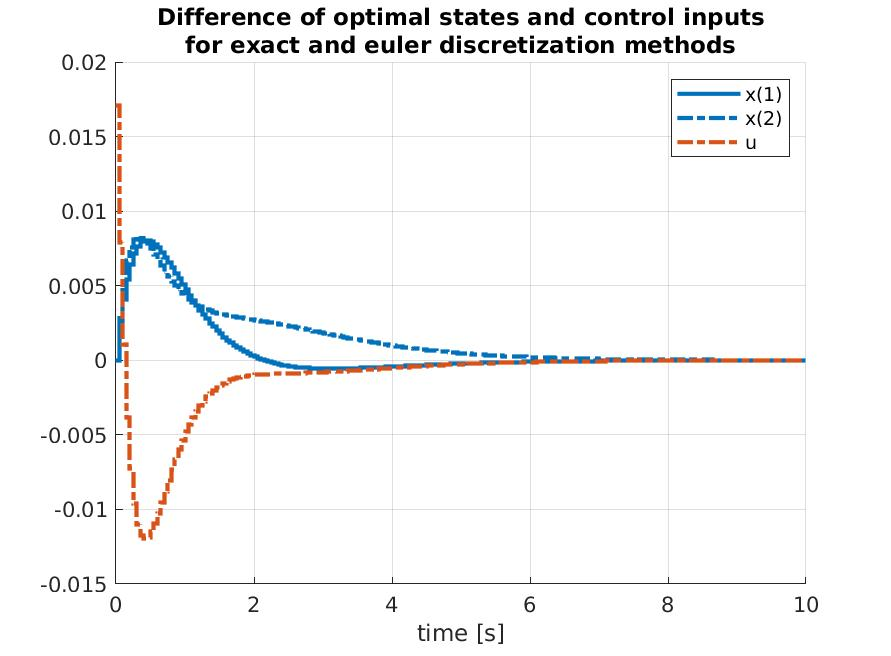
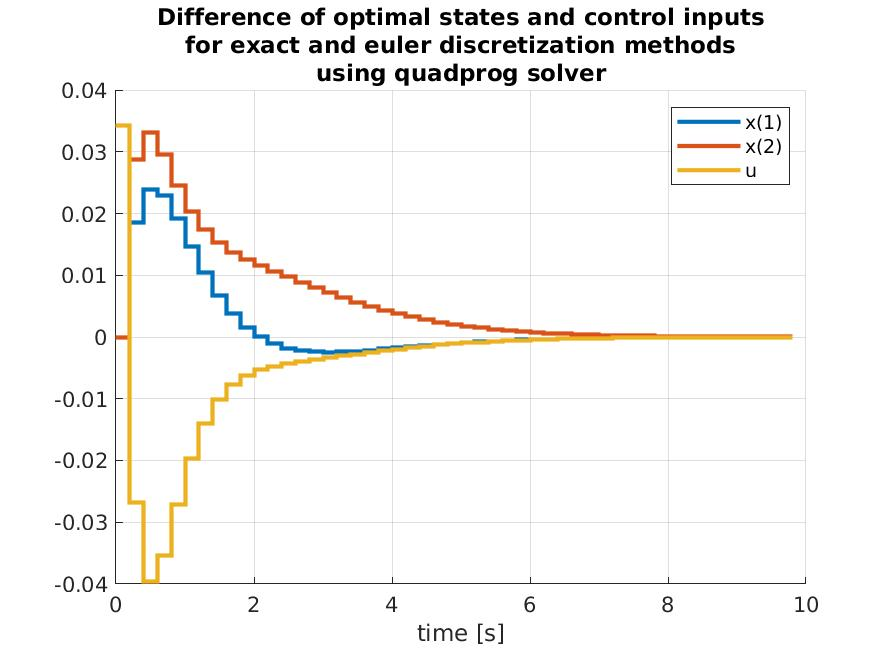
removing unused parameters

diff --git a/Homework Exercise 1/mainr.m b/Homework Exercise 1/mainr.m
@@ -6,7 +6,6 @@ digits(5);
 % cost function parameters
 Q = eye(2);
 R = 1;
-Pf = zeros(2);  % no final cost
 
 % horizon length
 tf = 10;            % horizon length
@@ -44,51 +43,72 @@ Bd_1, Bd_2
 
 %% Question F) Lets verify the difference in the solution when using the two different discretization methods
 
-[H, f, d, Aeq, beq] = define_opt_control_problem (Ad_1, Bd_1, Q, R, Pf, x0, N, n, m);
-[x_opt_1, u_opt_1] = solve_opt_control_quadprog (H, f, d, Aeq, beq, N, n, m);
-[x_opt_1_KKT, u_opt_1_KKT] = solve_opt_control_KKT (H, f, d, Aeq, beq, N, n, m);
+[H, f, d, Aeq, beq]        = define_opt_control_problem (Ad_1, Bd_1, Q, R, x0, N, n, m);
+[x_opt_1, u_opt_1]         = solve_opt_control_quadprog (H, f, d, Aeq, beq, N, n, m);
+[x_opt_1_KKT, u_opt_1_KKT] = solve_opt_control_KKT      (H, f, d, Aeq, beq, N, n, m);
+
+norm(x_opt_1-x_opt_1_KKT)
 
 fig = figure('Color','w'); hold on; grid on;
 plot_sim ( fig, x0, x_opt_1, u_opt_1, h, tf)
-title('Opt. control solution using exact discretization');
-saveas(fig, 'question-f-exact', 'jpg');
+title('Opt. control solution using exact discretization and quadprog solver');
+saveas(fig, 'question-f-exact-quadprog', 'jpg');
+
+fig = figure('Color','w'); hold on; grid on;
+plot_sim ( fig, x0, x_opt_1_KKT, u_opt_1_KKT, h, tf)
+title('Opt. control solution using exact discretization and KKT-cond');
+saveas(fig, 'question-f-exact-KKT', 'jpg');
 
 
-[H, f, d, Aeq, beq] = define_opt_control_problem (Ad_2, Bd_2, Q, R, Pf, x0, N, n, m);
-[x_opt_2, u_opt_2] = solve_opt_control_quadprog (H, f, d, Aeq, beq, N, n, m);
+[H, f, d, Aeq, beq]        = define_opt_control_problem (Ad_2, Bd_2, Q, R, x0, N, n, m);
+[x_opt_2, u_opt_2]         = solve_opt_control_quadprog (H, f, d, Aeq, beq, N, n, m);
+[x_opt_2_KKT, u_opt_2_KKT] = solve_opt_control_KKT      (H, f, d, Aeq, beq, N, n, m);
+
+norm(x_opt_2-x_opt_2_KKT)
+
 fig = figure('Color','w'); hold on; grid on;
 plot_sim ( fig, x0, x_opt_2, u_opt_2, h, tf)
-title('Opt. control solution using Euler discretization');
+title('Opt. control solution using Euler discretization and quadprog solver');
+saveas(fig, 'question-f-euler', 'jpg');
+
+fig = figure('Color','w'); hold on; grid on;
+plot_sim ( fig, x0, x_opt_2_KKT, u_opt_2_KKT, h, tf)
+title('Opt. control solution using Euler discretization and KKT-cond');
 saveas(fig, 'question-f-euler', 'jpg');
 
 
 fig = figure('Color','w'); hold on; grid on;
 plot_sim ( fig, x0*0, x_opt_1-x_opt_2, u_opt_1-u_opt_2, h, tf)
-title({'Difference of optimal states and control inputs','for exact and euler discretization methods'});
+title({'Difference of optimal states and control inputs',
+       'for exact and euler discretization methods',
+       'using quadprog solver'});
 saveas(fig, 'question-f-error', 'jpg');
 
 
 
 %% Question G) What happens if we change Q?
 
-[H, f, d, Aeq, beq] = define_opt_control_problem (Ad_1, Bd_1, 0.2*Q, R, Pf, x0, N, n, m);
-[x_opt, u_opt] = solve_opt_control_quadprog (H, f, d, Aeq, beq, N, n, m);
+[H, f, d, Aeq, beq] = define_opt_control_problem (Ad_1, Bd_1, 0.2*Q, R, x0, N, n, m);
+[x_opt, u_opt]      = solve_opt_control_quadprog (H, f, d, Aeq, beq, N, n, m);
+
 fig = figure('Color','w'); hold on; grid on;
 plot_sim ( fig, x0, x_opt, u_opt, h, tf)
 title('Opt. control solution using exact discretization - Q = 0.2*I_2');
 saveas(fig, 'question-g-alpha-0p2', 'jpg');
 
 
-[H, f, d, Aeq, beq] = define_opt_control_problem (Ad_1, Bd_1, 1*Q, R, Pf, x0, N, n, m);
-[x_opt, u_opt] = solve_opt_control_quadprog (H, f, d, Aeq, beq, N, n, m);
+[H, f, d, Aeq, beq] = define_opt_control_problem (Ad_1, Bd_1, 1*Q, R, x0, N, n, m);
+[x_opt, u_opt]      = solve_opt_control_quadprog (H, f, d, Aeq, beq, N, n, m);
+
 fig = figure('Color','w'); hold on; grid on;
 plot_sim ( fig, x0, x_opt, u_opt, h, tf)
 title('Opt. control solution using exact discretization - Q = 1*I_2');
 saveas(fig, 'question-g-alpha-1p0', 'jpg');
 
 
-[H, f, d, Aeq, beq] = define_opt_control_problem (Ad_1, Bd_1, 40*Q, R, Pf, x0, N, n, m);
-[x_opt, u_opt] = solve_opt_control_quadprog (H, f, d, Aeq, beq, N, n, m);
+[H, f, d, Aeq, beq] = define_opt_control_problem (Ad_1, Bd_1, 40*Q, R, x0, N, n, m);
+[x_opt, u_opt]      = solve_opt_control_quadprog (H, f, d, Aeq, beq, N, n, m);
+
 fig = figure('Color','w'); hold on; grid on;
 plot_sim ( fig, x0, x_opt, u_opt, h, tf)
 title('Opt. control solution using exact discretization - Q = 40*I_2');
@@ -97,40 +117,46 @@ saveas(fig, 'question-g-alpha-40p0', 'jpg');
 
 %% Question H) Compare continuous-time and discrete-time solution using the optimal control input
 
+
+
 % sysc = ss(Ac,Bc,eye(n),0);
 % sysd = c2d(sysc, h, 'zoh');
 % step(sysc,'-',sysd,'--')
 
 % continous time simulation
 sys = ss(Ac,Bc,eye(n),0);
-[y,t,x] = lsim(sys, u_opt_1, 0:h:tf-h, x0, 'zoh')
+[y,t,x] = lsim(sys, u_opt_1, 0:h:tf-h, x0, 'zoh');
 
 fig = figure('Color','w'); hold on; grid on;
-plot ( 1:N, x_opt_1-x', 'LineWidth',2)
+plot ( 1:N-1, x_opt_1-x(1:end-1,:)', 'LineWidth',2)
 legend('error x(1)','error x(2)')
 title('Error between continuous time and discrete time simulation');
 saveas(fig, 'question-h-discretization-error', 'jpg');
 
+
+close all;
 
 
 
 %% Helper functions
 
 
-function [H, f, d, Aeq, beq] = define_opt_control_problem ( Ad, Bd, Q, R, Pf, x0, N, n, m)
+function [H, f, d, Aeq, beq] = define_opt_control_problem ( Ad, Bd, Q, R, x0, N, n, m)
     %% Define Optimal control matrices
 
     gamma = zeros(N*n,N*m);
     for i=0:N-2
         gamma = gamma + kron(diag(ones(N-i,1),-i),Ad^i*Bd);     % fill lower-diagonals with Ad^i*Bd
     end
+    gamma = gamma(1:(N-1)*n,:);     % remove last constraint that includes x_N
     
     omega = [];
     for i=1:N
         omega = [omega; Ad^i];                              % extend matrix
     end
+    omega = omega(1:(N-1)*n,:);     % remove last constraint that includes x_N
     
-    Qb = blkdiag( kron(eye(N-1),Q), Pf );       % Qb = blkdiag(Q, Q, Q, Q, ..., Q, Pf)
+    Qb = kron(eye(N-1),Q);
     Rb = kron(eye(N),R);                        % Rb = blkdiag(R, R, ..., R)
     
     %% Define quadratic minimization problem
@@ -138,13 +164,13 @@ function [H, f, d, Aeq, beq] = define_opt_control_problem ( Ad, Bd, Q, R, Pf, x0
     % J = (xb'*Qb*xb + ub'*Rb*ub + x0'*Q*x0)    =   0.5*[xb,ub]'*H*[xb,ub] + f'*[xb,ub]' + d
     %   where:
     H = 2 * blkdiag(Qb,Rb);
-    f = zeros((n+m)*N,1);
+    f = zeros(n*(N-1)+m*N,1);   % f = zeros((n+m)*N,1);
     d = x0' * Q * x0;
 
     % equality constraints:  
     %  xb = omega*x0 + gamma*ub    =>   Aeq*[xb,ub] = beq
     %   where:
-    Aeq = [ eye(n*N), -gamma ];
+    Aeq = [ eye(n*(N-1)), -gamma ];  % Aeq = [ eye(n*N), -gamma ];
     beq = omega * x0;
 end
 
@@ -166,14 +192,20 @@ function [x_opt, u_opt] = solve_opt_control_quadprog (H, f, d, Aeq, beq, N, n, m
     % check constraints error: (Aeq*Y-beq)'
 
     % reshape solution
-    x_opt = reshape( Y(1:N*n), n, []);
-    u_opt = reshape( Y(N*n+1:end), m, []);
+    x_opt = reshape( Y(1:(N-1)*n), n, []);
+    u_opt = reshape( Y((N-1)*n+1:end), m, []);
 end
 
 function [x_opt, u_opt] = solve_opt_control_KKT (H, f, d, Aeq, beq, N, n, m)
     %% Solve optimal control problem using KKT conditions
     
-    if false
+    % 1 step solution
+    if rank(H) == size(H,1)
+        nu = -(Aeq/H*Aeq')\(Aeq/H*f + beq);
+        y  = -H\(Aeq'*nu + f);
+        
+    % 1 iterative solution - Newton's method
+    else    
         % user input
         tol  = 1e-12;
         maxiter = 20;
@@ -194,15 +226,11 @@ function [x_opt, u_opt] = solve_opt_control_KKT (H, f, d, Aeq, beq, N, n, m)
             fprintf('iter: %4d, tolerance:%f\n',iter,norm(delta));
             iter = iter+1;
         end
-    % 
-    else    
-        nu = -(Aeq/H*Aeq')\(Aeq/H*f + beq);
-        y  = -H\(Aeq'*nu + f);
     end
     
     % reshape solution
-    x_opt = reshape( y(1:N*n), n, []);
-    u_opt = reshape( y(N*n+1:end), m, []);
+    x_opt = reshape( y(1:(N-1)*n), n, []);
+    u_opt = reshape( y((N-1)*n+1:end), m, []);
 end
 
 
@@ -211,9 +239,9 @@ function plot_sim ( fig, x0, x_opt, u_opt, h, tf )
     figure(fig);
     clr = lines(20);
     % subplot(3,1,1)
-    stairs(0:h:tf,   [x0(1), x_opt(1,:)]',      'Color',clr(1,:),'LineWidth',2,'DisplayName','x(1)');
-    stairs(0:h:tf,   [x0(2), x_opt(2,:)]', '-.','Color',clr(1,:),'LineWidth',2,'DisplayName','x(2)');
-    stairs(0:h:tf-h, u_opt(1,:)',          '-.','Color',clr(2,:),'LineWidth',2,'DisplayName','u'); 
+    stairs(0:h:tf-h, [x0(1), x_opt(1,:)]', '-','Color',clr(1,:),'LineWidth',2,'DisplayName','x(1)');
+    stairs(0:h:tf-h, [x0(2), x_opt(2,:)]', '-','Color',clr(2,:),'LineWidth',2,'DisplayName','x(2)');
+    stairs(0:h:tf-h, u_opt(1,:)',          '-','Color',clr(3,:),'LineWidth',2,'DisplayName','u'); 
 
     legend
     xlabel('time [s]')
